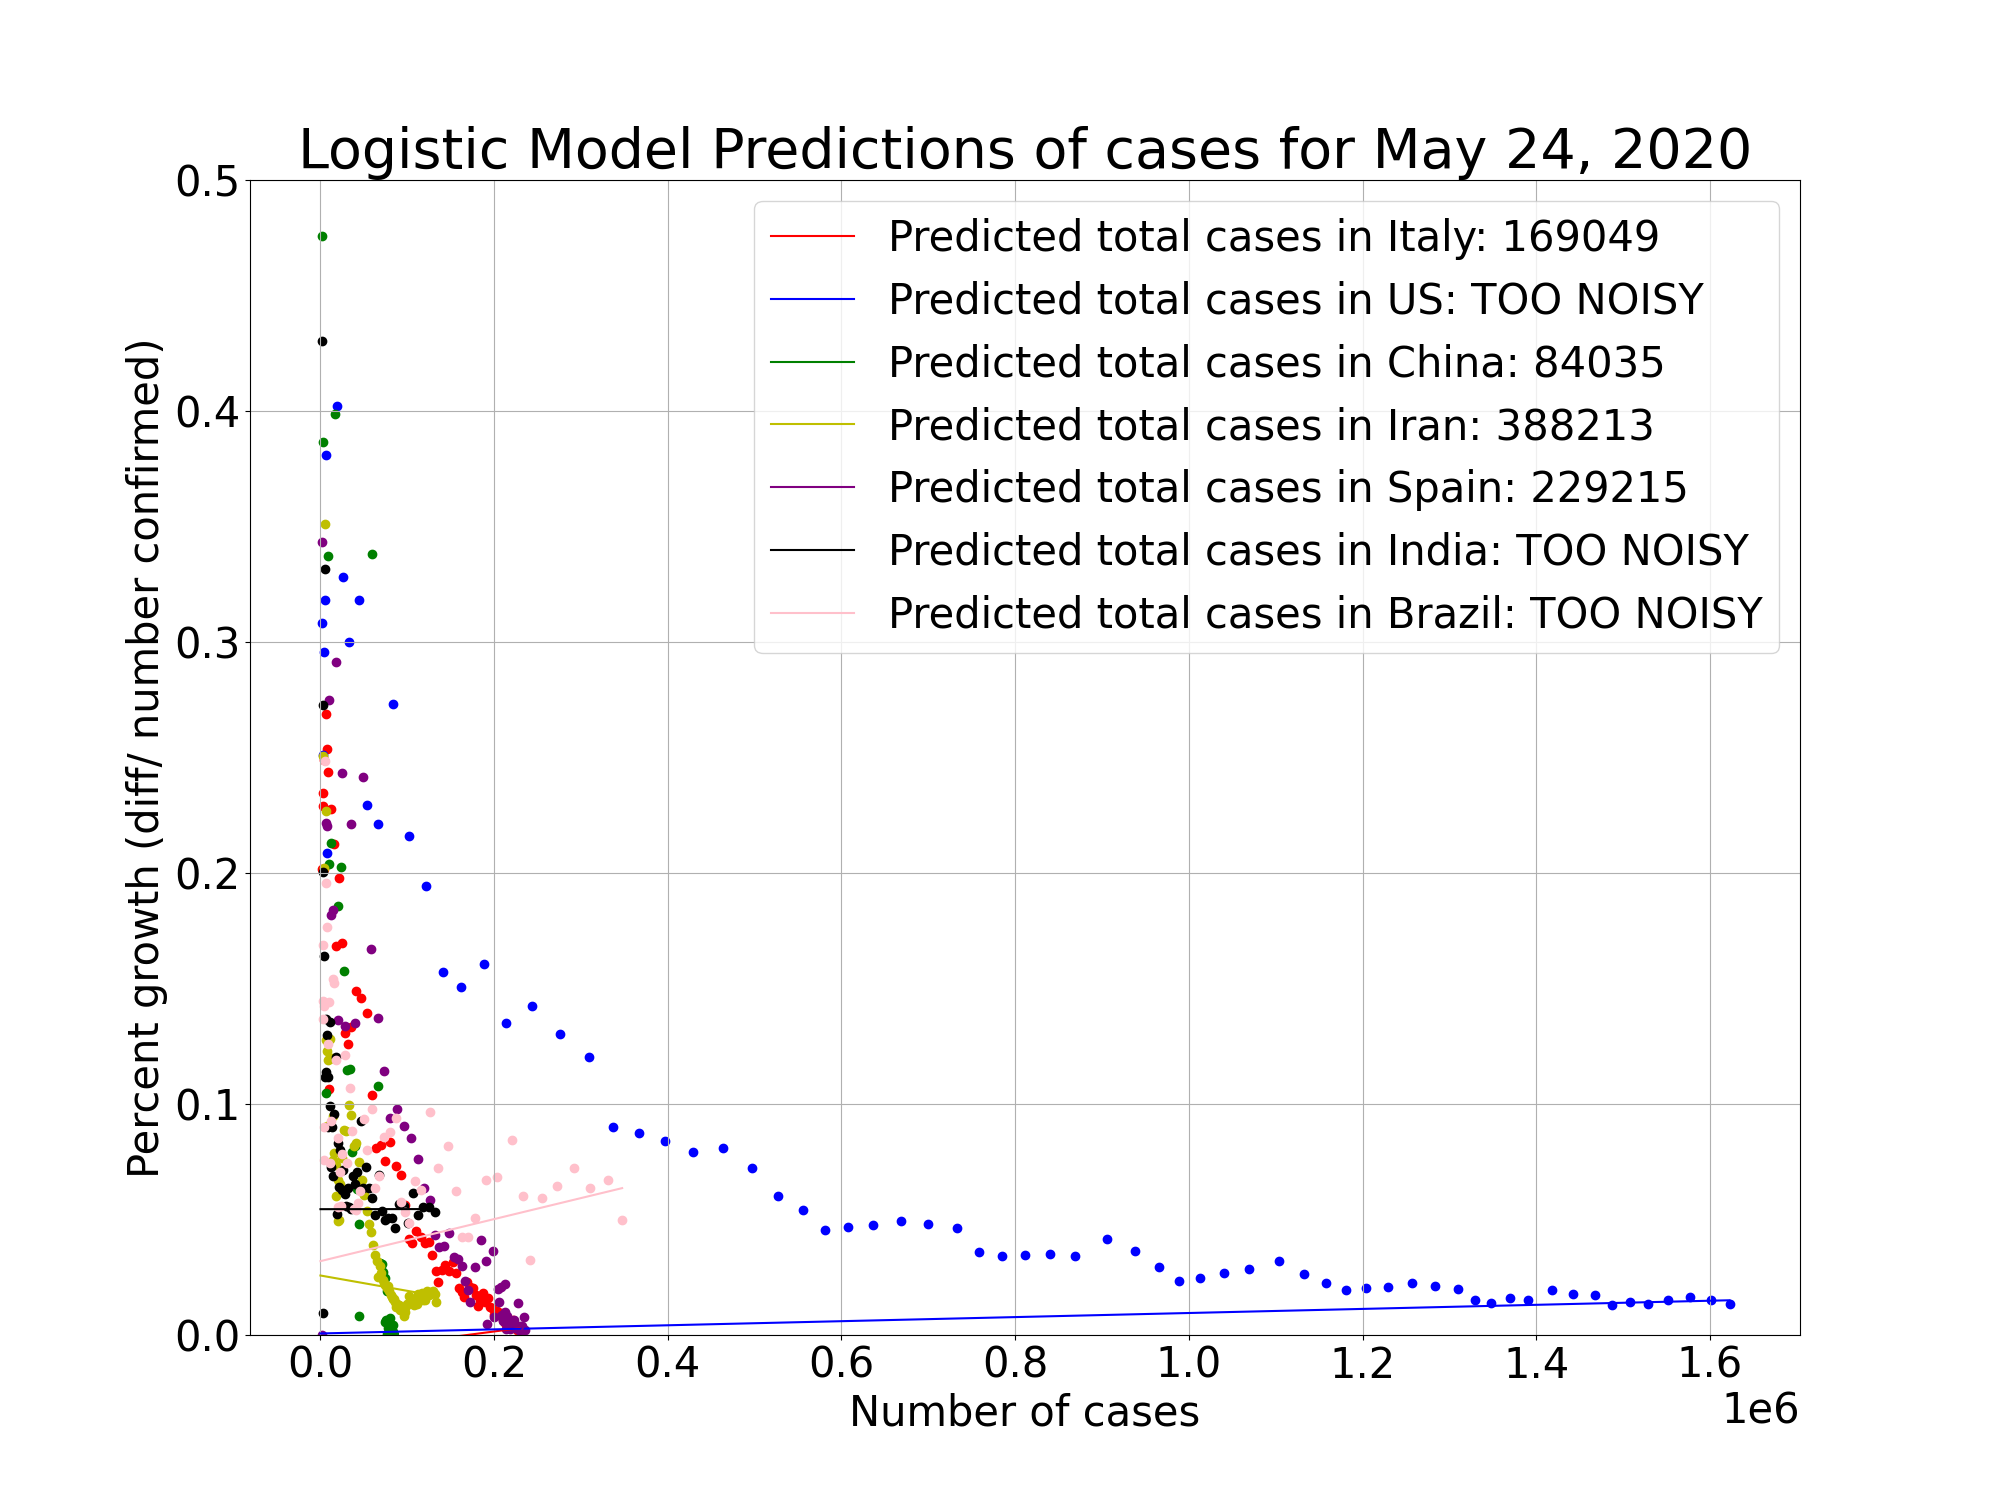
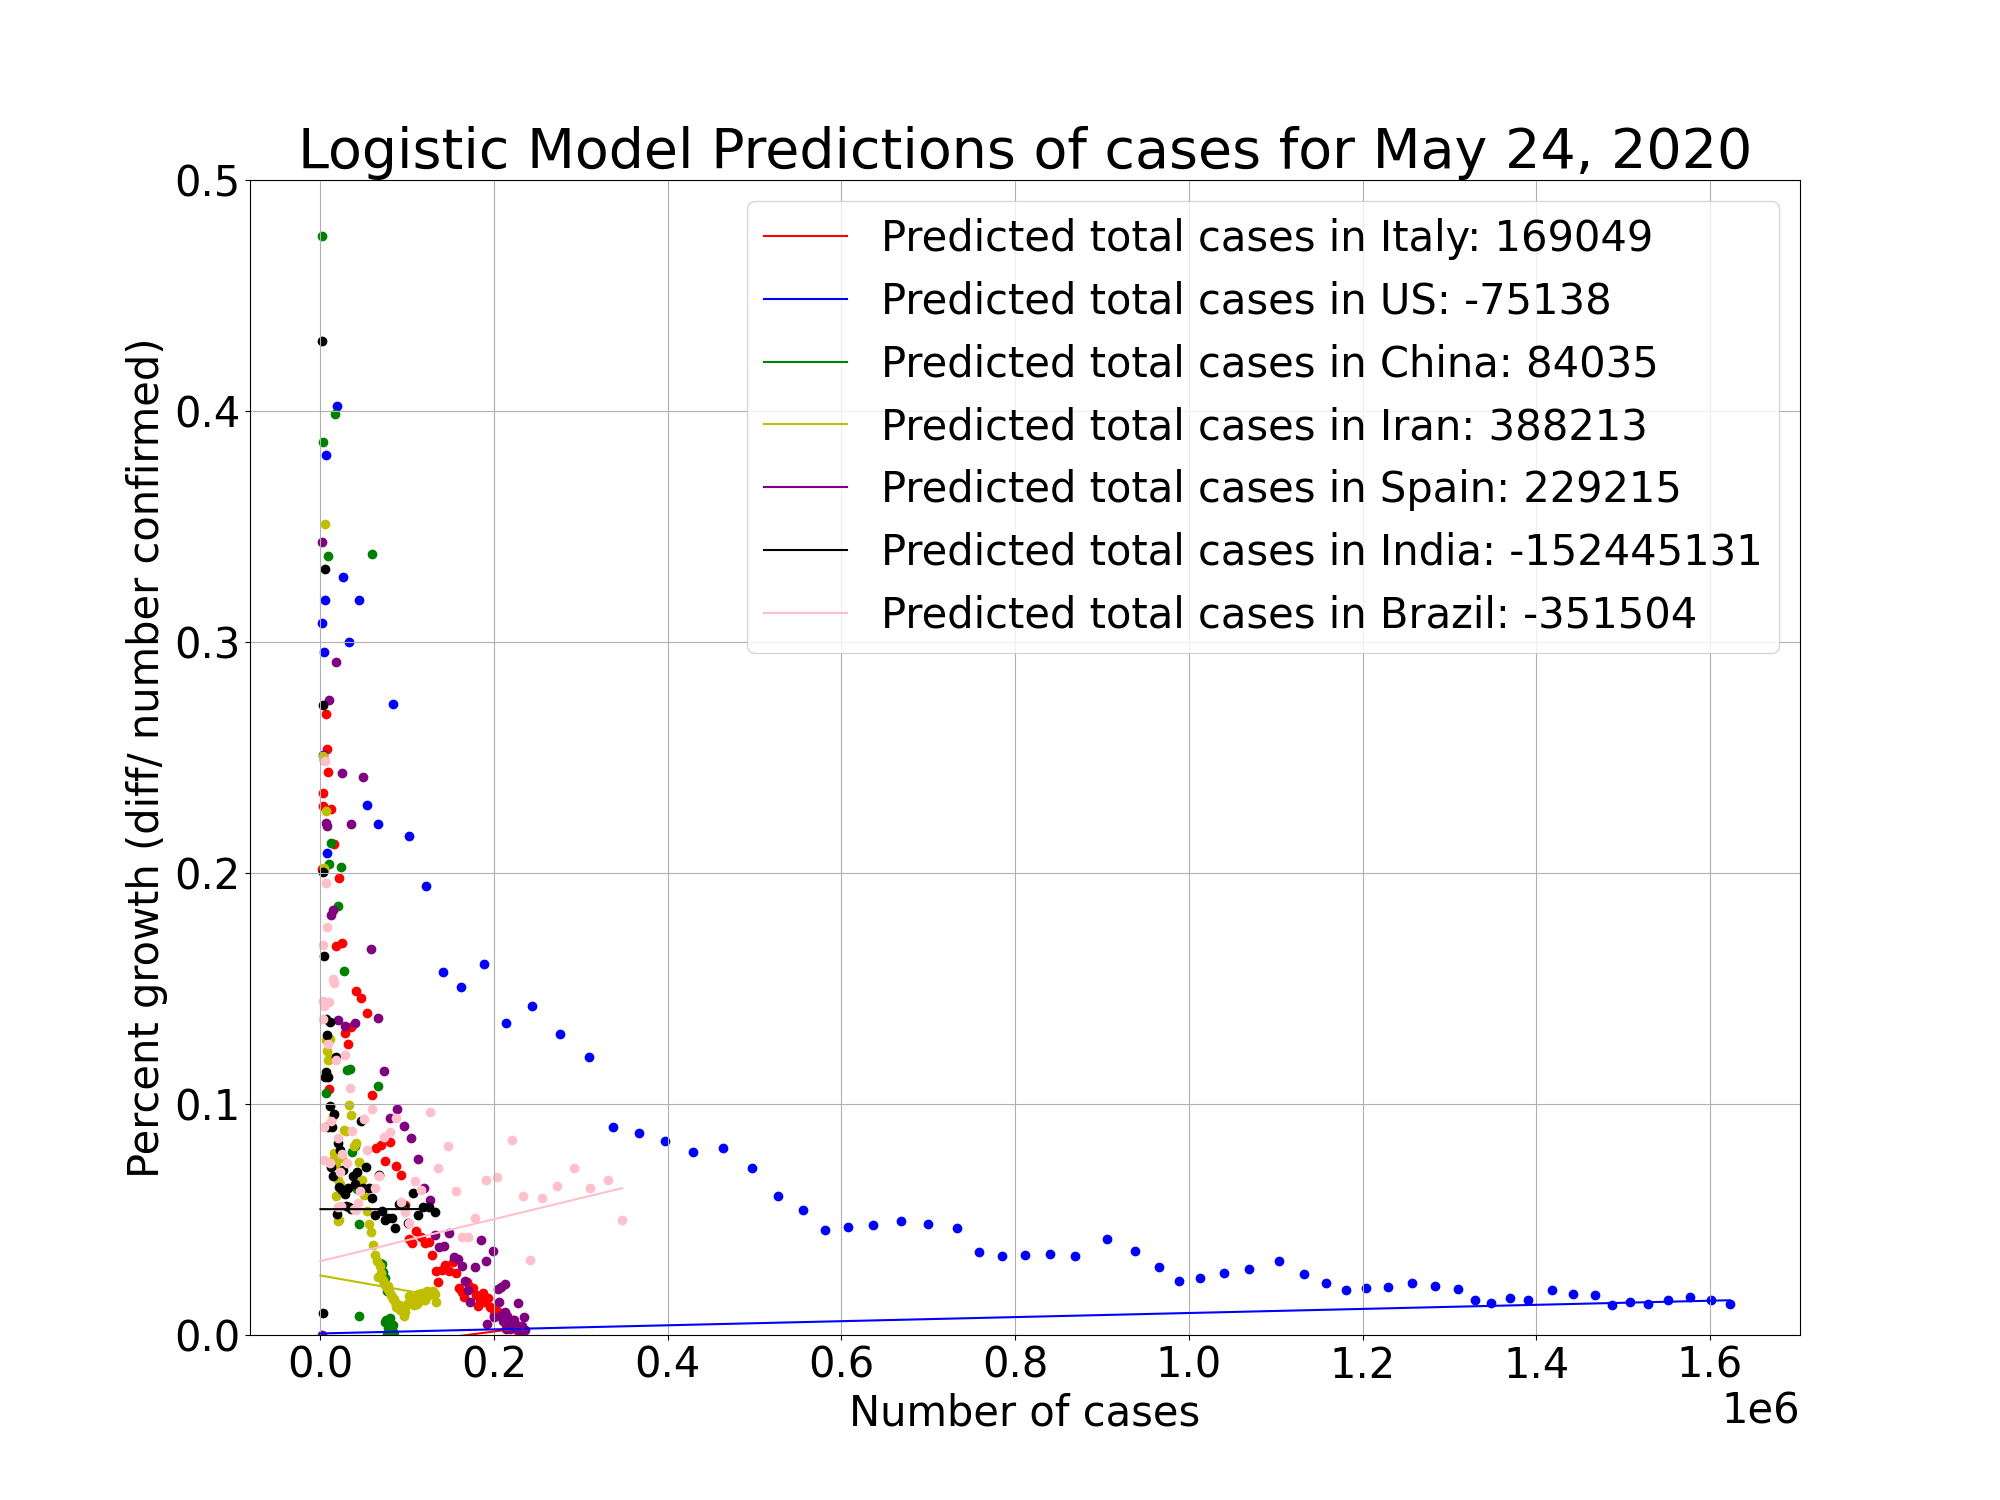
auto update

Changed region(s): [[0.434, 0.1227, 0.868, 0.4293]]

diff --git a/update_plots.py b/update_plots.py
@@ -52,8 +52,6 @@ for data_type in ('cases', 'deaths'):
             x_intercept = int(np.round(x_intercept[0]))
         except:
             x_intercept = 'TOO NOISY'
-        if x_intercept < 0:
-            x_intercept = 'TOO NOISY'
         info = "Predicted total %s in %s: %s" % (
             data_type, country, x_intercept)
         print(info)
